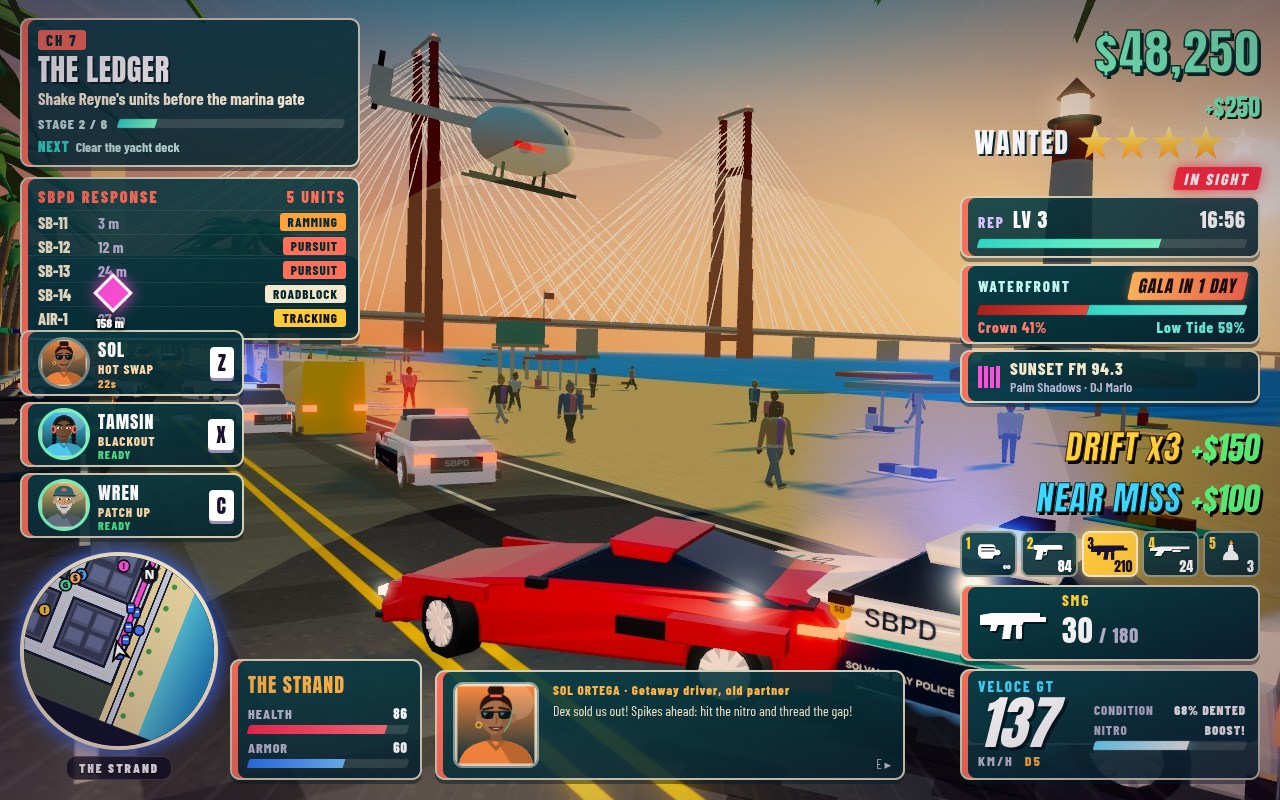
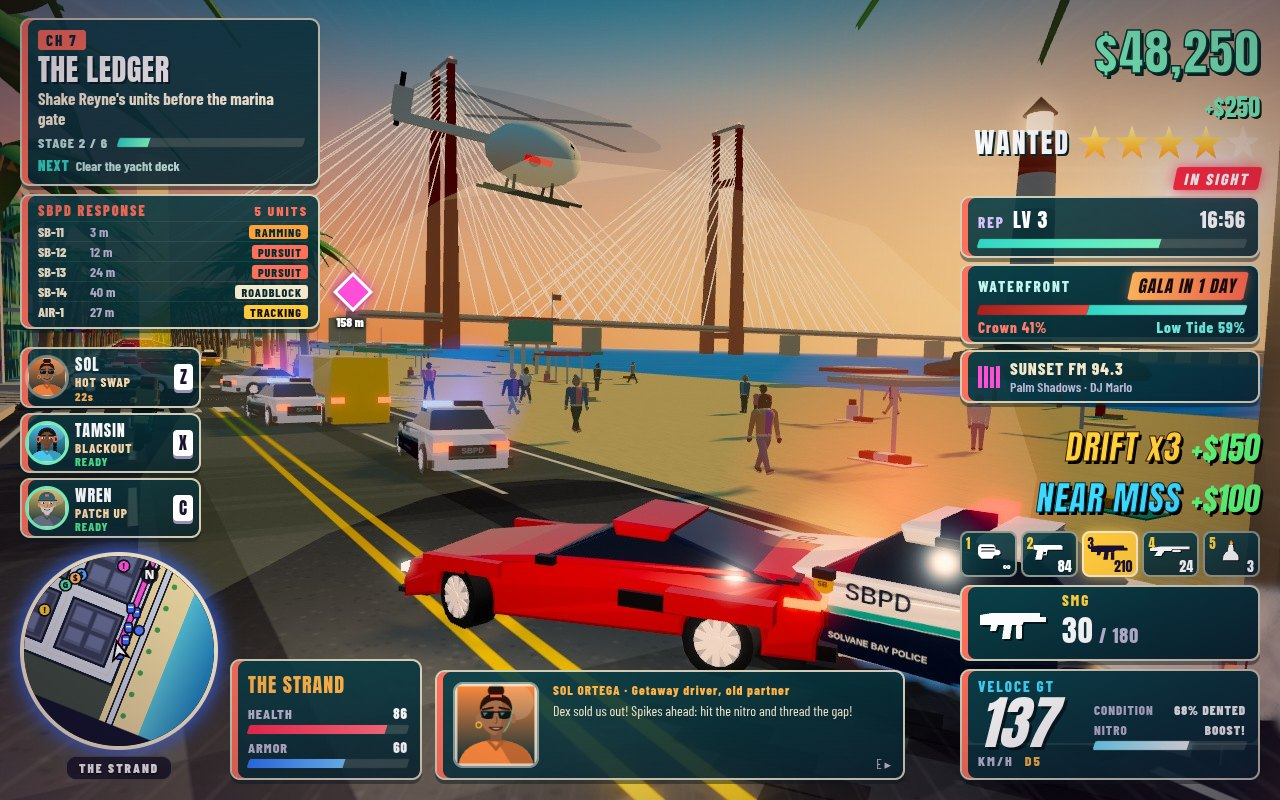
HUD window for the cover: slimmer left column, compact police rows and crew cards so mission, police, crew, minimap and district never touch; waypoint diamond pushed off HUD cards

diff --git a/game/src/ui/hud.js b/game/src/ui/hud.js
@@ -18,13 +18,16 @@ import { updateCrewCards } from './crewCardStack.js';
 import { shares } from '../story/territoryControl.js';
 import { galaLabel } from '../story/chapterArc.js';
 
-const wpV = { x: 0, y: 0, z: 0 };
+const wpV = { x: 0, y: 0, z: 0 }, HUD_RECTS = ['leftCol', 'crewStack', 'bottomLeft', 'topRight', 'rightCol', 'dialog'];
 // Screen-space waypoint diamond with distance over the GPS target (clamped to the screen edges).
 function updateWaypoint() {
   const t = G.mode === 'play' ? gpsTarget() : null, el = $('waypoint'); if (!t) { el.style.display = 'none'; return; }
   const v = G.camera.position.clone().set(t.x, 5, t.z).project(G.camera), behind = v.z > 1; let x = (v.x * 0.5 + 0.5) * innerWidth, y = (0.5 - v.y * 0.5) * innerHeight;
   if (behind) { x = innerWidth - x; y = innerHeight - 90; }
   x = Math.max(40, Math.min(innerWidth - 40, x)); y = Math.max(70, Math.min(innerHeight - 90, y));
+  // never sit on a HUD card: push the diamond (and its distance label) out toward the screen centre
+  for (const id of HUD_RECTS) { const e = $(id); if (!e || !e.offsetParent) continue; const r = e.getBoundingClientRect();
+    if (x > r.left - 22 && x < r.right + 22 && y > r.top - 16 && y < r.bottom + 34) { if (r.left + r.right < innerWidth) x = r.right + 30; else x = r.left - 30; } }
   el.style.display = 'block'; el.style.transform = `translate(${x.toFixed(0)}px, ${y.toFixed(0)}px)`; el.classList.toggle('start', t.kind === 'start');
   set('wpDist', `${Math.round(Math.hypot(t.x - G.p.x, t.z - G.p.z))} m`);
 }

diff --git a/game/styles/hud.css b/game/styles/hud.css
@@ -148,3 +148,12 @@
 .wt.sel { background: var(--tc-gold); border-color: var(--tc-cream); }
 .crewc .ring { background: rgba(244, 232, 204, 0.5); } .crewc.ready .ring { background: var(--tc-mint); box-shadow: none; }
 #minimap, #mapWrap { border-color: var(--tc-cream) !important; }
+/* Cover-grade layout: a slimmer left column and compact police rows and crew cards, so mission, police list, crew,
+   minimap and district card stack without touching and the centre of the screen stays a clear view of the world. */
+#leftCol { width: 300px; gap: 8px; }
+#policeCard { padding: 6px 10px 6px 16px; background: linear-gradient(165deg, rgba(10, 64, 72, 0.78), rgba(5, 36, 46, 0.7)); }
+#policeCard .hdr { font-size: 14px; margin-bottom: 2px; }
+.prow { font-size: 14px; padding: 1px 0; gap: 6px; } .prow .cs { width: 46px; } .prow .d { width: 46px; } .tag { font-size: 12px; padding: 0 6px; }
+#crewStack { gap: 5px; }
+.crewc { width: 168px; gap: 6px; padding: 3px 6px 3px 3px; background: linear-gradient(165deg, rgba(10, 64, 72, 0.8), rgba(5, 36, 46, 0.72)); }
+.crewc .ring, .crewc canvas { width: 38px; height: 38px; } .crewc .cinfo b { font-size: 16px; } .crewc kbd { font-size: 17px; padding: 0 6px; }
